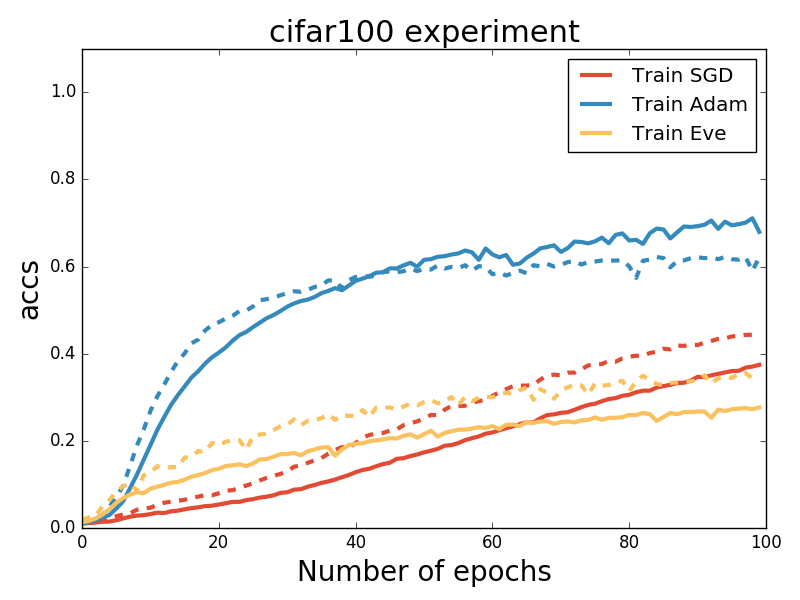
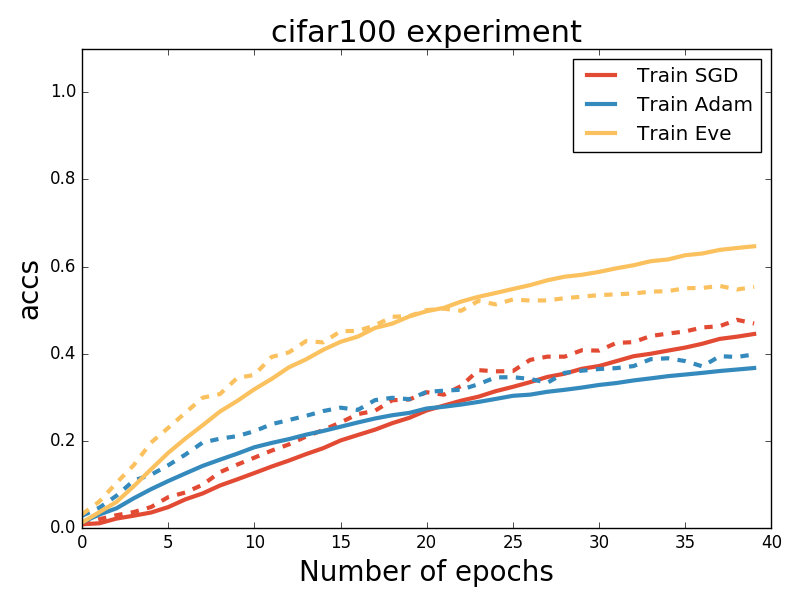
Add CIFAR100 results

diff --git a/Eve/train.py b/Eve/train.py
@@ -25,11 +25,11 @@ def train(model_name, **kwargs):
 
     # Compile model.
     if optimizer == "SGD":
-        opt = SGD(lr=1E-3, decay=0, momentum=0.9, nesterov=True)
+        opt = SGD(lr=1E-2, decay=1E-4, momentum=0.9, nesterov=True)
     if optimizer == "Adam":
-        opt = Adam(lr=1E-3, beta_1=0.9, beta_2=0.999, epsilon=1e-08)
+        opt = Adam(lr=1E-4, beta_1=0.9, beta_2=0.999, epsilon=1e-08, decay=1E-4)
     if optimizer == "Eve":
-        opt = Eve(lr=1E-3, beta_1=0.9, beta_2=0.999, beta_3=0.999, small_k=0.1, big_K=10, epsilon=1e-08)
+        opt = Eve(lr=1E-4, decay=1E-4, beta_1=0.9, beta_2=0.999, beta_3=0.999, small_k=0.1, big_K=10, epsilon=1e-08)
 
     if dataset == "cifar10":
         (X_train, y_train), (X_test, y_test) = cifar10.load_data()

diff --git a/Eve/eval.py b/Eve/eval.py
@@ -34,7 +34,7 @@ def plot_results(list_log, to_plot="losses"):
     if to_plot == "losses":
         plt.yscale("log")
     if to_plot == "accs":
-        plt.ylim([0.5, 1.1])
+        plt.ylim([0, 1.1])
     plt.xlabel("Number of epochs", fontsize=20)
     plt.title("%s experiment" % dataset, fontsize=22)
     plt.legend(loc="best")

diff --git a/Eve/README.md b/Eve/README.md
@@ -55,3 +55,14 @@ For this experiment, the configuration of the optimizers was:
 which shows that for this one experiment (no hyperparameter grid search) the training metric converges faster and to a better optimum with Eve.
 
 
+Running `python main.py SGD Adam Eve --model_name Big_CNN --nb_epoch 100 --dataset cifar100` --nb_epoch 40, we obtained:
+
+For this experiment, the configuration of the optimizers was:
+
+    opt = SGD(lr=1E-2, decay=1E-4, momentum=0.9, nesterov=True)
+    opt = Adam(lr=1E-4, decay=1E-4, beta_1=0.9, beta_2=0.999, epsilon=1e-08)
+    opt = Eve(lr=1E-4, decay=1E-4, beta_1=0.9, beta_2=0.999, beta_3=0.999, small_k=0.1, big_K=10, epsilon=1e-08)
+
+![CIFAR100](./figures/cifar100_results_losses.png)
+
+![CIFAR100](./figures/cifar100_results_accs.png)
